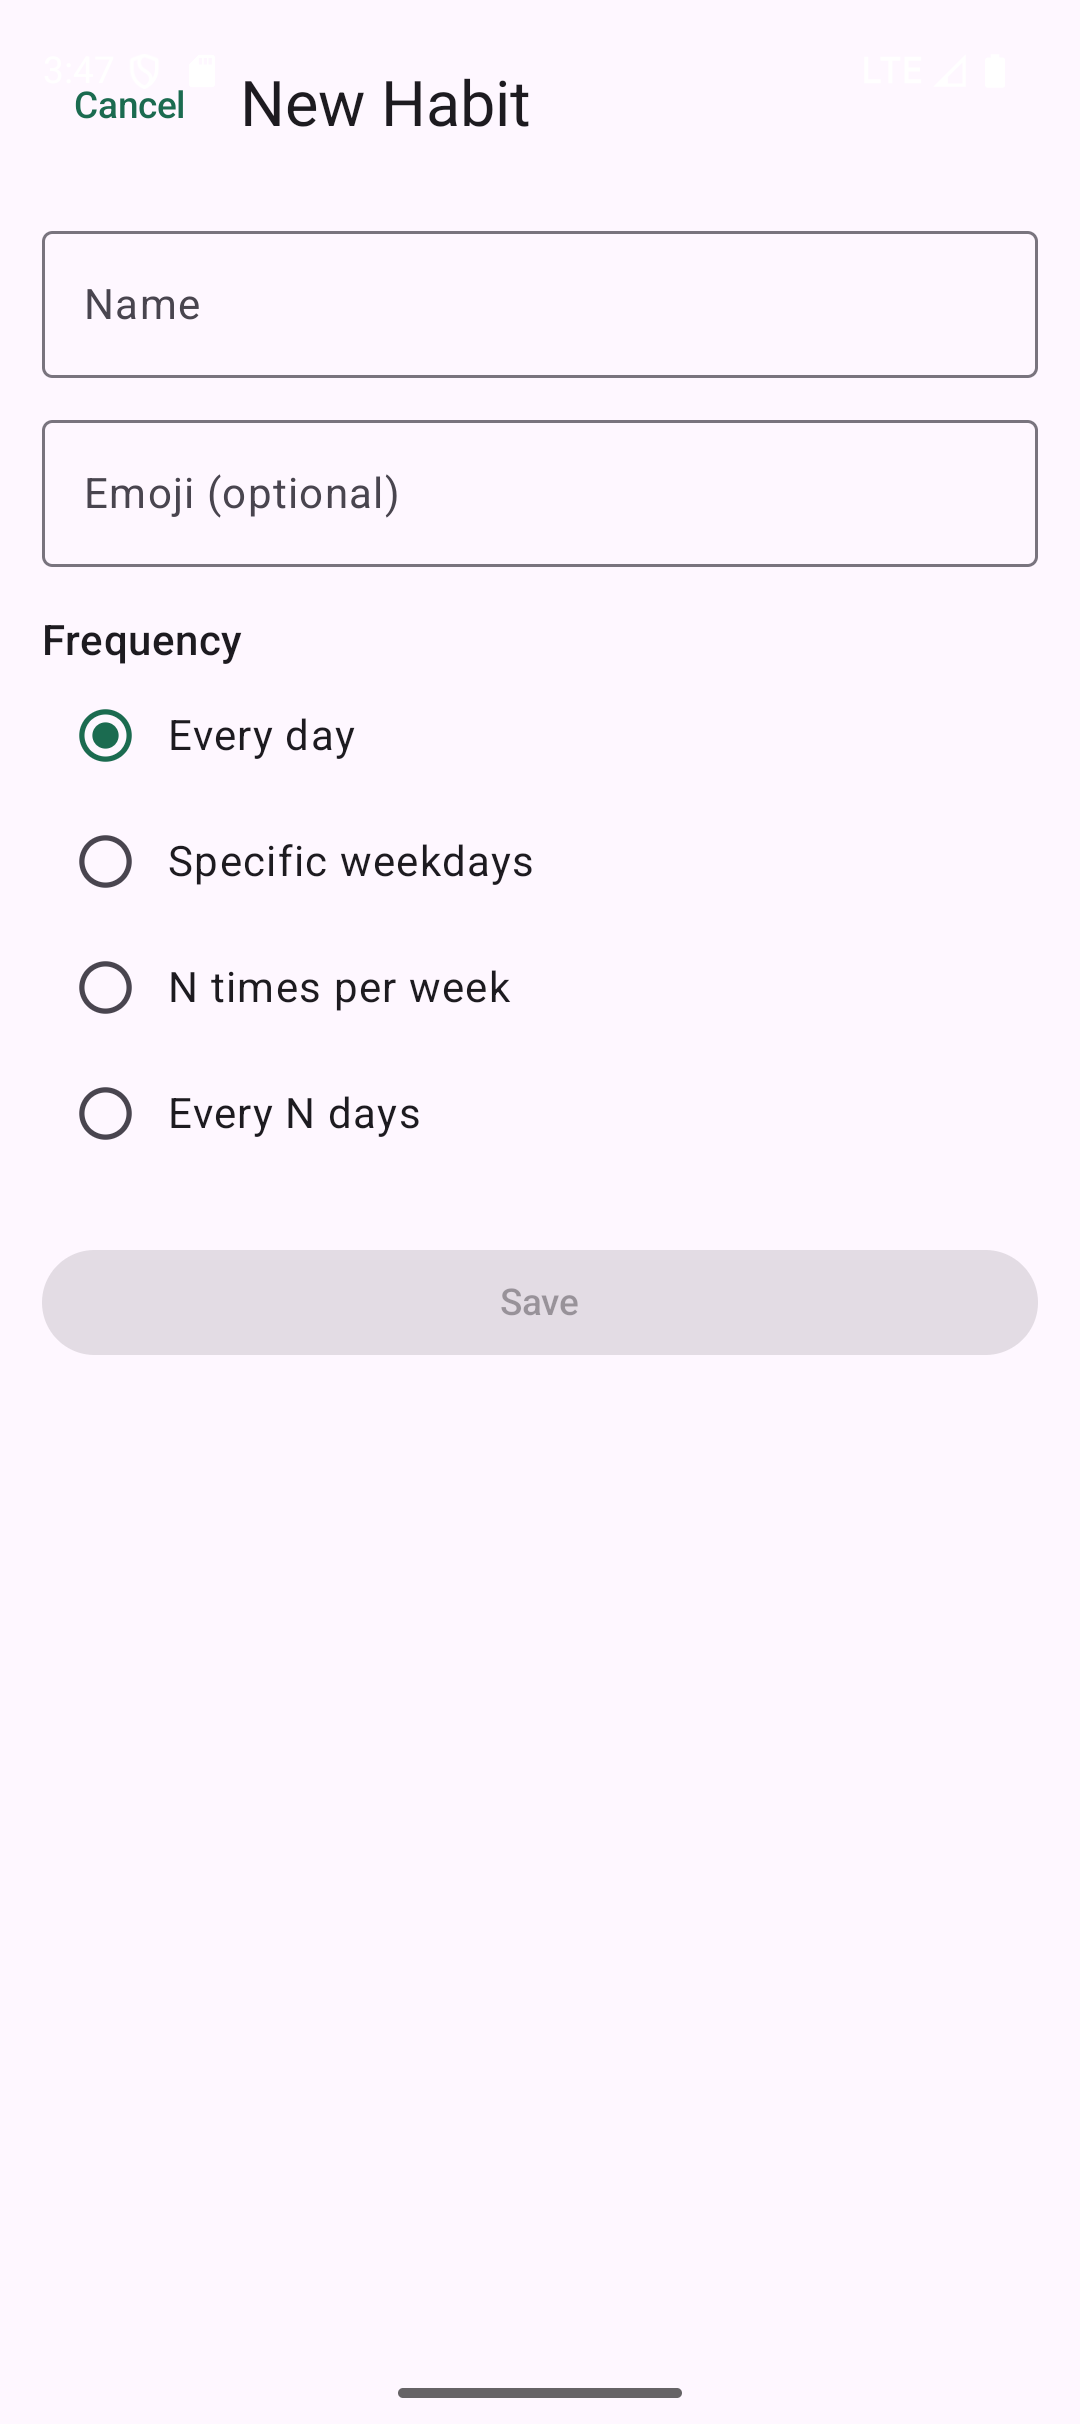
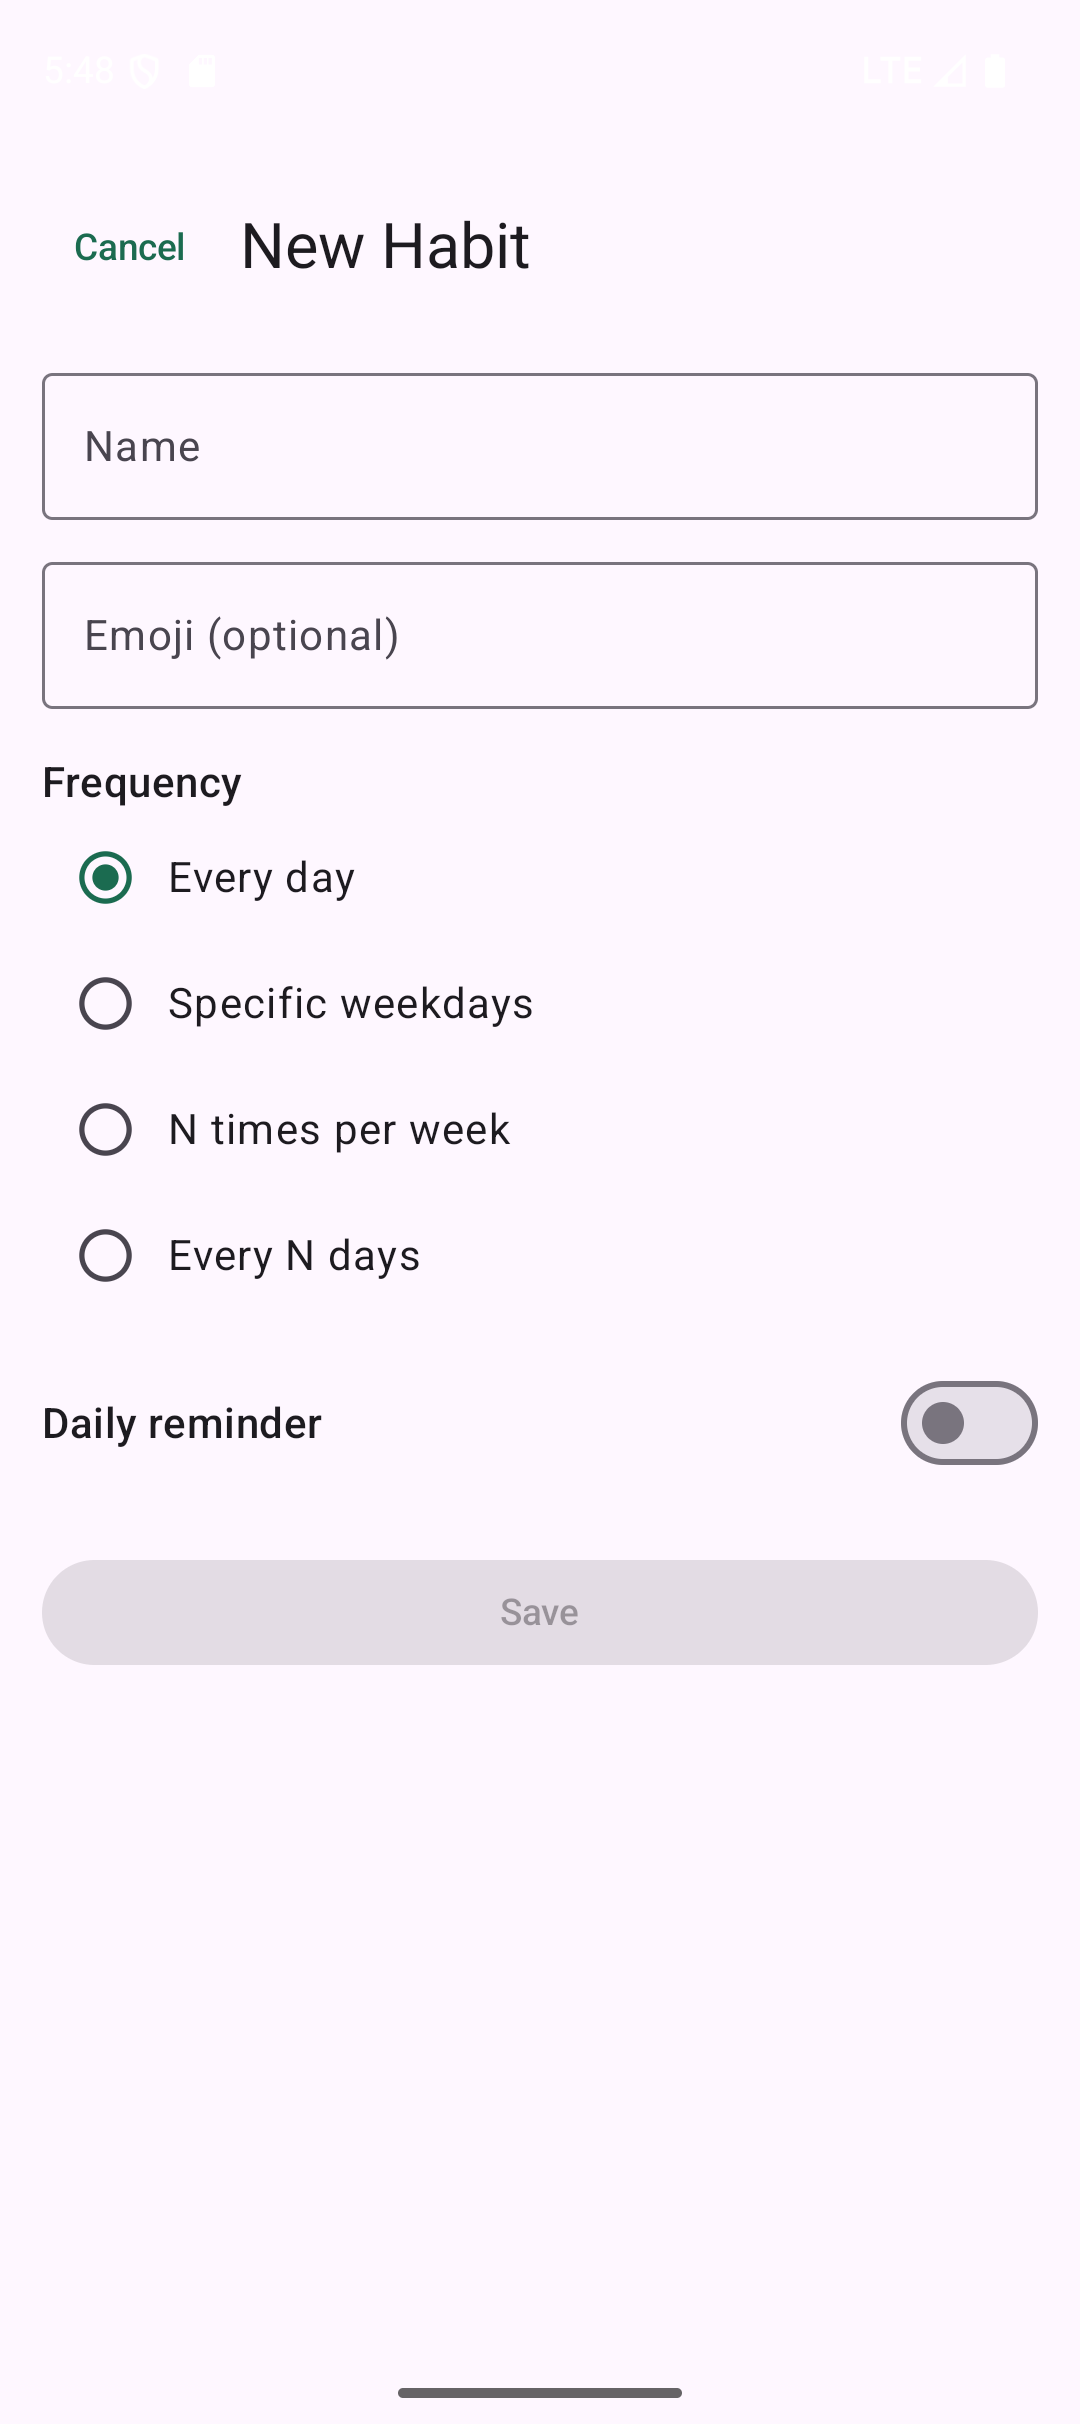
docs: add screenshots and update README to v0.2

diff --git a/README.md b/README.md
@@ -27,6 +27,12 @@ minus their most-complained-about pain points**.
 | "Privacy / permissions" `106` | **Zero permissions — not even INTERNET** |
 | "Hard to use" `56` | Simple list, habit grouping, drag-to-reorder (roadmap) |
 
+## Screenshots / 截图
+
+| Home · streaks | Add / edit habit |
+|---|---|
+| <img src="docs/screenshots/01-home.png" width="240"> | <img src="docs/screenshots/02-add-habit.png" width="240"> |
+
 ## Business model / 商业模式
 
 **Free & open-source, local-first — not SaaS.** No backend, no servers, no logins, no ads,
@@ -66,11 +72,12 @@ Or just open the project in Android Studio and Run.
 
 ## Status / 进度
 
-v0.1 skeleton: flexible-schedule engine + streak math + Room persistence + Compose home
-screen, with unit tests green. Reminders, widget, statistics, and backup are on the roadmap.
+v0.2: full habit CRUD (add / edit / delete), 4 flexible frequencies, daily check-off with
+frequency-aware streaks, daily reminder notifications, local-only storage. 24 unit tests green,
+CI passing. Statistics, backup, grouping, and a home-screen widget are on the roadmap.
 
-v0.1 骨架:灵活周期引擎 + streak 计算 + Room 持久化 + Compose 首页,单测全绿。
-提醒 / 桌面 widget / 统计 / 备份在路线图上。
+v0.2:完整习惯增删改 + 4 种灵活频率 + 频率感知 streak 打卡 + 每日提醒通知 + 纯本地存储。
+24 单测绿、CI 通过。统计 / 备份 / 分组 / 桌面 widget 在路线图上。
 
 ## License
 